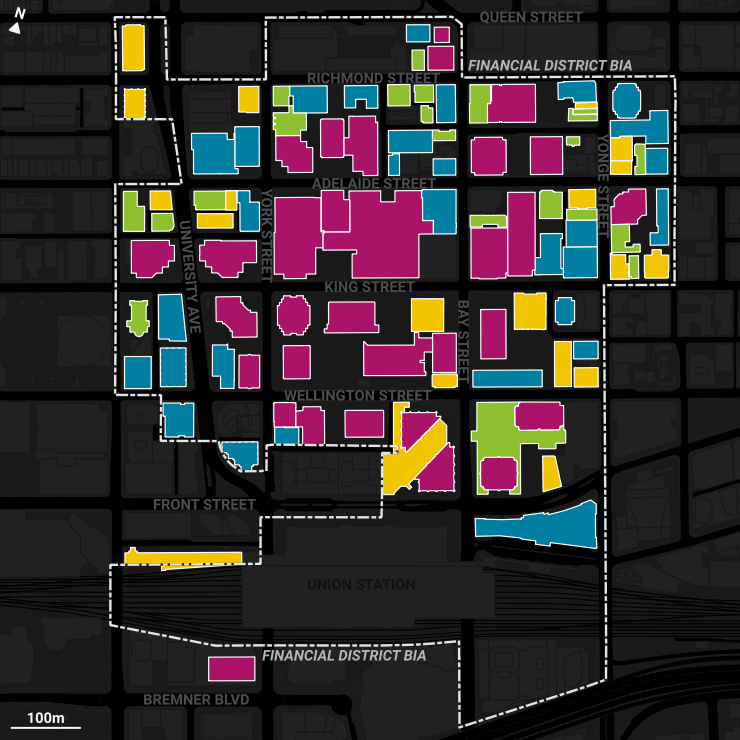
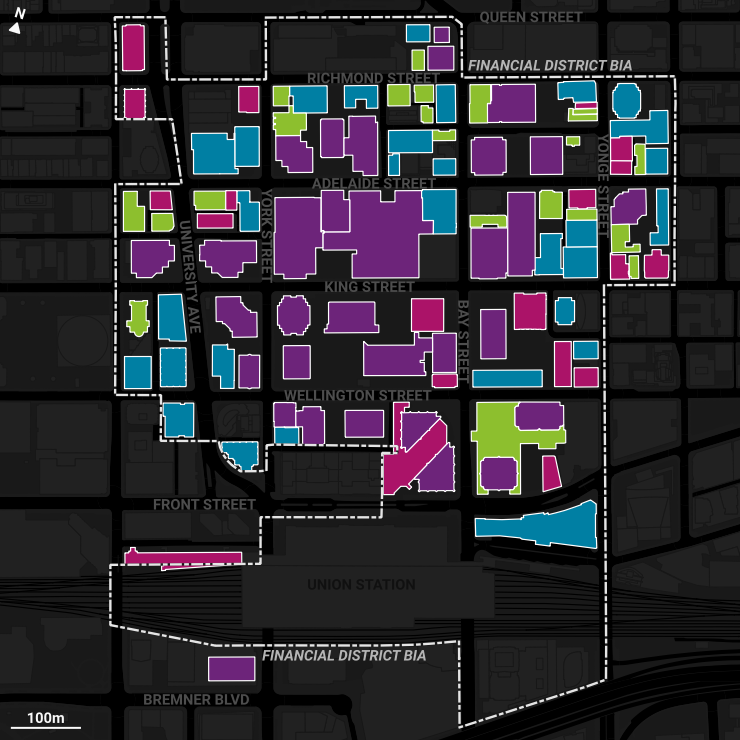
tune up text, fix dot plot overlpa

diff --git a/src/routes/blog/toronto-buildings/+page.svelte b/src/routes/blog/toronto-buildings/+page.svelte
@@ -7,6 +7,8 @@
     import DotDistribution from "./lib/DotDistribution.svelte";
     import ClusterResult from "./lib/ClusterResult.svelte";
 
+    import mapRecovery from "./data/map-cluster.png";
+
 </script>
 
 
@@ -22,21 +24,21 @@
 
 
         <p>
-            On this site, we've tracked post-pandemic recovery patterns in the downtowns of many North American cities, based on location-based mobility data from cell phones supplied by Spectus. While we've compared recovery across different cities, and users to explore different definitions of downtown, policymakers often need more fine-grained data to determine how recovery is progressing at the city block or individual building level.
+            On this website, we've tracked post-pandemic recovery patterns in the downtowns of many North American cities, based on location-based mobility data from cell phones supplied by Spectus. While we've <a href="/charts/rankings">compared recovery across different cities</a>, as well as created a tool to <a href="/blog/downtown-definitions">explore how results vary for different definitions of downtown</a>, policymakers often need more fine-grained data to determine how recovery is progressing at the city block or individual building level.
         </p>
         <p>
-            Here we examine recovery rates (comparing activity in spring 2023 to spring 2019) for 119 buildings located in the Toronto Financial District Business Improvement Area (BIA); most are either office (45%), office plus retail (33%), or retail only (11%) buildings. The map below reveals substantial variation in recovery across the area: the darker the red, the lower activity in 2023 compared to 2019, and the darker the blue, the higher the rate of recovery.
+            On this page, we examine recovery rates (comparing activity in Spring 2023 to Spring 2019) for 119 buildings located in the Toronto Financial District Business Improvement Area (BIA). Most buildngs in this BIA are either office (45%), mixed-use office plus retail (33%), or retail only (11%) buildings. The map below reveals substantial variation in recovery across the area. The darker the red, the lower activity in 2023 compared to 2019, and the darker the blue, the higher the rate of recovery.
         </p>
         
 
         <MapTorontoRecovery/>
 
         <p>
-            Specifically, to estimate the recovery rate of each building, we counted the total unique daily visitors from March to May 2023, dividing it by the total unique daily visitors in corresponding months in 2019. Before dividing, both totals were normalized by the total number of unique devices in the City of Toronto, to account for changing sampling rates over time. A recovery rate lower than 100% indicates that the number of visitors from March to May 2023 had not yet recovered to the same period in 2019. For more details on how we are measuring recovery from this data, view our  <a href="/methodology">methodology</a> page.
+            Specifically, to estimate the recovery rate of each building, we counted the total unique daily visitors from March to May 2023, dividing it by the total unique daily visitors in corresponding months in 2019. Before dividing, both totals were normalized by the total number of unique devices in the City of Toronto, to account for changing sampling rates over time. For more details on how we are measuring recovery from Spectus data, view our  <a href="/methodology">methodology</a> page.
         </p>
 
         <p>  
-            The building that recorded the highest rate of change was CIBC Square (Phase I with 3026%) followed by Wildeboer Dellelce Place and the building at 9 Temperance St (369% and 344% respectively). In the case of CIBC Square, it was under construction during the before-pandemic period and opened in 2021, which led to a massive increase in recovery rates. It also has a regional bus terminal on it's ground floor. The building that recorded the lowest recovery rate was the HSBC Building at 70 York St (7%) and the Lumsden Building at 6 Adelaide St E (7%). These buildings likely had tenants that moved out during the pandemic and have not had their spaces refilled by spring 2023.
+            The building that recorded the highest rate of change was CIBC Square Phase I with 3026% followed by Wildeboer Dellelce Place and the building at 9 Temperance St (369% and 344% respectively). In the case of CIBC Square, it was under construction in 2019 and opened in 2021. It also has a regional bus terminal on its ground floor. The building that recorded the lowest recovery rate was the HSBC Building at 70 York St (7%) and the Lumsden Building at 6 Adelaide St E (7%). These buildings likely had tenants that moved out during the pandemic and have not had their spaces refilled by Spring 2023.
         </p>
 
         <h2>Recovery Rates By Building Type</h2>
@@ -58,26 +60,39 @@
         <h2>Cluster Analysis</h2>
 
         <p>
-            Based on the recovery rate results, we conducted a clustering analysis to identify building typologies related to their recovery rates and other attributes such as building type (e.g. retail, office, etc.), building class (A, B, or C, which is a ranking of building quality, often reflective in rental rates) and usable space of the building (i.e. the total floor area to account for different building sizes). Specifically, we ran a <a href="https://en.wikipedia.org/wiki/K-means_clustering">k-means cluster analysis</a> on all office, retail, and mixed use office/retail buildings in the district. The categorical variables were converted to dummy variables (0 or 1) and the numeric variables on usable space and recovery rate were log scaled and normalized to a range from 0 to 1 prior to clustering. The number of clusters was based on analyzing the within-cluster sum of squares for different numbers of clusters.
+            Based on the recovery rate results, we conducted a clustering analysis to identify building typologies related to their recovery rates and other attributes such as building type (e.g. retail, office, etc.), building class (A, B, or C, which is a ranking of building quality, often reflective in rental rates) and usable space of the building (i.e. the total floor area to account for different building sizes). Specifically, we ran a <a href="https://en.wikipedia.org/wiki/K-means_clustering">k-means cluster analysis</a> on all office, retail, and mixed use office/retail buildings in the district. The categorical variables were converted to dummy variables (0 or 1) and the numeric variables on usable space and recovery rate were log scaled and normalized to a range from 0 to 1 prior to clustering. The number of clusters was based on analyzing the within-cluster sum of squares.
         </p>
         <p>
-            Based on our analysis, we find that there are 4 clusters, or types, of buildings.
-            It is our hope that based on this typology, policy-makers and related stakeholders can see how different types of buildings are recovering more than others, and can design effective recovery strategies for downtown’s diverse sub-areas, in Toronto.
+            Based on our analysis, we find that there are 4 clusters (i.e. types) of buildings.
         </p>       
 
     </div>
 
     <ClusterResult/>
 
-       
-
     <div class="text">
 
-        <h2>Data & Methods</h2>
+        <p>Below is a map of the cluster results. A large number of buildings were identified in the third cluster, predominantly Class A mixed-use buildings with lower recovery rates, which we see are located in the centre of the BIA. These buildings make up most of the tall skyscrapers in the district. Buildings in the other clusters are scattered more around the periphery of the BIA.</p>
+
+        <p>It is our hope that based on this typology, policy-makers and related stakeholders can see how different types of buildings are recovering more than others, and can design effective recovery strategies based on building-level attributes.</p>
+
+        <div class="mapImg">
+
+            <img src={mapRecovery} alt="Map ...">
+        
+        </div>
+
+        <p>
+            While our analysis was focused on Toronto's downtown, the same type of analysis could be applied to other areas as well that have building level data or other sub-geographies (e.g. sets of city blocks, BIAs, neighbourhoods) with distinct characteristics. If you're interested in seeing something similar for your city or neighbourhood, please reach out to us!
+        </p>
+
+        <br><br><br>
+
+        <!-- <h2>Data & Methods</h2>
 
         <p>
             For details on the downtown recovery metrics, check out our <a href="../methodology">methodology</a>. The charts on this page were made by <a href="https://jamaps.github.io">Jeff Allen</a> using D3 and Svelte.
-        </p>
+        </p> -->
 
     </div>
 
@@ -87,30 +102,18 @@
 
 <style>
 
-    .grid {
-        margin: 0 auto;
-        display: flex;
-        flex-wrap: wrap;
-        justify-content: center; /* Center the cells horizontally */
-        max-width: 1100px;
+    .mapImg {
+        max-width: 740px;
+        margin: 0 auto; /* Center the container */
     }
-
-    .grid-cell {
-        width: 50%;
-        box-sizing: border-box;
-    }
-
-    @media (max-width: 1000px) {
-        .grid-cell {
-            width: 100%;
-        }
-    }
-
-    #options {
-        margin: 0 auto;
-        padding-top: 8px;
-        padding-bottom: 8px;
-    }
+    img {
+		border: solid 1px var(--brandDarkBlue);
+		min-width: 350px;
+		max-width: 600px; /* Set maximum width to 100% of the container */
+		height: auto; /* Maintain aspect ratio */
+		display: block; /* Remove default image spacing */
+		margin: 0 auto; /* Center the image within the container */
+	}
 
     .text {
         border: 0px;

diff --git a/src/routes/blog/toronto-buildings/lib/ClusterResult.svelte b/src/routes/blog/toronto-buildings/lib/ClusterResult.svelte
@@ -16,7 +16,8 @@
 			"Class A": 0,
 			"Class B": 0.7272727272727273,
 			"Class C": 0.2727272727272727,
-			"Recovery Rate": 0.7261625560245528
+			"Recovery Rate": 0.7261625560245528,
+			"n": 22
 		},
 		{
 			"cluster": 2,
@@ -29,11 +30,12 @@
 			"Class A": 0.23333333333333334,
 			"Class B": 0.7666666666666667,
 			"Class C": 0,
-			"Recovery Rate": 0.5793544678022642
+			"Recovery Rate": 0.5793544678022642,
+			"n": 30
 		},
 		{
 			"cluster": 3,
-			"colour": "#AB1368",
+			"colour": "#6D247A",
 			"name": "Low Recovery, Class A & Retail Mix",
 			"Useable Space": 0.7604600977897897,
 			"Office & Retail": 0.71875,
@@ -42,11 +44,12 @@
 			"Class A": 0.9375,
 			"Class B": 0.0625,
 			"Class C": 0,
-			"Recovery Rate": 0.4851078200226867
+			"Recovery Rate": 0.4851078200226867,
+			"n": 32
 		},
 		{
 			"cluster": 4,
-			"colour": "#F1C500",
+			"colour": "#AB1368",
 			"name": "Very Low Recovery, Class B",
 			"Useable Space": 0.45203298849205176,
 			"Office & Retail": 0.2,
@@ -55,7 +58,8 @@
 			"Class A": 0,
 			"Class B": 0.95,
 			"Class C": 0.05,
-			"Recovery Rate": 0.34098280832331385
+			"Recovery Rate": 0.34098280832331385,
+			"n": 20
 		}
 	]
 
@@ -84,7 +88,8 @@
 					width="30" 
 					height="15" 
 					fill="{cluster.colour}"
-					stroke-width="0"
+					stroke-width="1"
+					stroke="white"
 				/>
 
 				<line 
@@ -105,6 +110,17 @@
 					font-family="Roboto"
 					>
 					{cluster.name}			
+				</text>
+
+				<text
+					x="390" 
+					y="23" 
+					fill="white"
+					font-size="12"
+					text-anchor="end"
+					font-family="Roboto"
+					>
+					n = {cluster.n}			
 				</text>
 				
 				{#each categories as category, index}

diff --git a/src/routes/blog/toronto-buildings/lib/DotDistribution.svelte b/src/routes/blog/toronto-buildings/lib/DotDistribution.svelte
@@ -131,17 +131,34 @@
 
 				{/each}
 
-				{#each bins(type) as t}
+				{#each bins(type) as t, i}
 
-					{#if t.length > 0}
+					{#if i > 0}
 
-						{#each Array.from({ length: t.length }, (_, index) => index) as c}
+						{#if t.length > 0}
 
-							<circle cx="{xScale(t.x0 + 5)}" cy="{94 - c * 9}" r="4" fill={colours(t.x0 + 0.01)}/>
+							{#each Array.from({ length: t.length }, (_, index) => index) as c}
 
-						{/each}
+								<circle cx="{xScale(t.x0 + 5)}" cy="{94 - c * 9}" r="4" fill={colours(t.x0 + 0.01)}/>
+
+							{/each}
+
+						{/if}
+
+					{:else}
+
+						{#if t.length > 0}
+
+							{#each Array.from({ length: t.length }, (_, index) => index) as c}
+
+								<circle cx="{xScale(t.x1 - 5)}" cy="{94 - c * 9}" r="4" fill={colours(t.x0 + 0.01)}/>
+
+							{/each}
+
+						{/if}
 
 					{/if}
+					
 
 				{/each}
 

diff --git a/src/routes/blog/toronto-buildings/lib/MapTorontoRecovery.svelte b/src/routes/blog/toronto-buildings/lib/MapTorontoRecovery.svelte
@@ -53,7 +53,7 @@
 <style>
 
 	.mapImg {
-		max-width: 740px;
+		max-width: 600px;
 		margin: 0 auto; /* Center the container */
 	}
 
@@ -70,7 +70,7 @@
 		padding-top: 10px;
 		/* background-color: red; */
 		border-top: solid 1px var(--brandDarkBlue);
-		max-width: 740px;
+		max-width: 600px;
 		margin: 0 auto;
 		padding-bottom: 10px;
 	}
